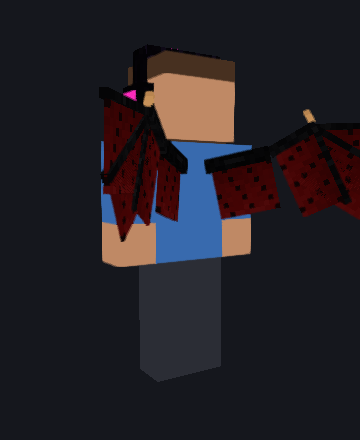
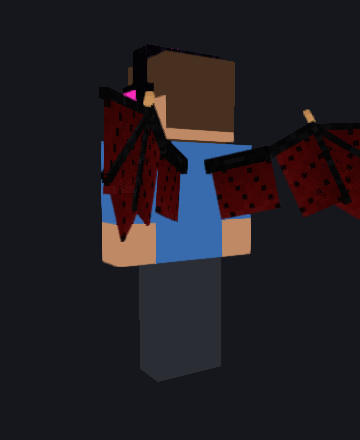
Cosmetics showcase: test skin with hair so back views read, Seraph wings raised; screenshots in docs/cosmetics

Changed region(s): [[0.3972, 0.1477, 0.6722, 0.325]]

diff --git a/launcher/scripts/cosmetic-models/showcase/entry.ts b/launcher/scripts/cosmetic-models/showcase/entry.ts
@@ -21,6 +21,8 @@ function skin(): string {
   const box = (x: number, y: number, w: number, h: number, col: string) => { g.fillStyle = col; g.fillRect(x, y, w, h) }
   // head
   box(0, 8, 32, 8, '#c8906a'); box(8, 0, 16, 8, '#4a3222'); box(0, 8, 32, 2, '#4a3222')
+  // hair over the back and the upper sides, so a back view reads as one
+  box(24, 8, 8, 7, '#4a3222'); box(0, 8, 8, 4, '#4a3222'); box(16, 8, 8, 4, '#4a3222')
   box(9, 12, 2, 1, '#2b2b40'); box(13, 12, 2, 1, '#2b2b40'); box(10, 14, 4, 1, '#8a5a44')
   // body + arms (shirt)
   box(16, 16, 24, 16, '#3b6fb6'); box(40, 16, 16, 16, '#3b6fb6'); box(32, 48, 16, 16, '#3b6fb6')
